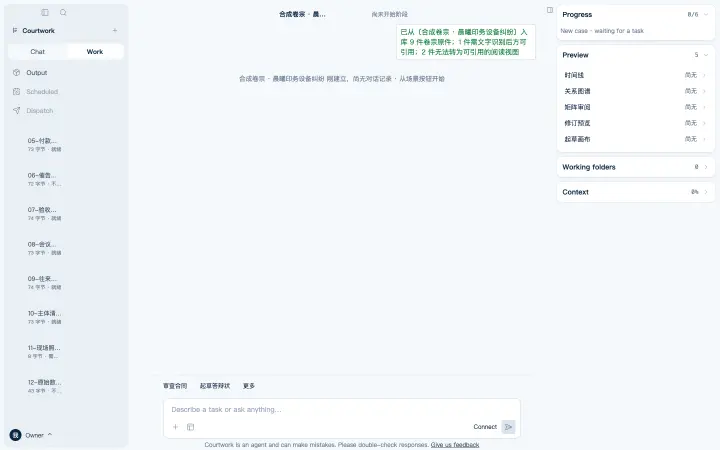
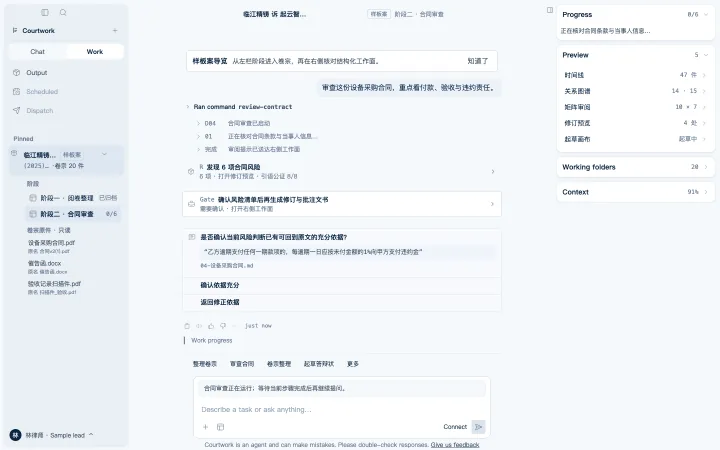
fix: tighten homepage composer flow measure

diff --git a/apps/desktop/src/styles.css b/apps/desktop/src/styles.css
@@ -95,7 +95,7 @@
   --home-control-radius: 8px;
   --home-surface-radius: 16px;
   --home-welcome-measure: 560px;
-  --content-measure: 760px; /* 五裁①(2026-07-12)：chat 内容列统一测宽,与 welcome 560 成梯度 */
+  --content-measure: 640px; /* COMPOSER-FLOW-COMPACT-1：chat 内容列与 composer 收至窄阅读测宽，welcome 560 保持梯度 */
 }
 
 * { box-sizing: border-box; box-shadow: none; scrollbar-width: thin; scrollbar-color: transparent transparent; }
@@ -469,7 +469,7 @@ kbd { min-width: 20px; padding: 2px 5px; border: 1px solid var(--border-strong);
 /* RP-2.12 待机主屏（Cowork 复刻）：品牌 icon + slogan（非卡）→ 居中 composer → 建议行 */
 .welcome-home {
   /* LAYOUT-CONVERGE-1 P2-4：测宽单源——收敛到 --home-welcome-measure（原硬编码 720px 退役，
-     与 --content-measure:760 成梯度，见 tokens.json home.welcomeMeasure）。 */
+     与 --content-measure:640 成梯度，见 tokens.json home.welcomeMeasure）。 */
   width: min(var(--home-welcome-measure), calc(100% - 48px)); margin: auto; padding: 0 0 48px;
   display: grid; justify-items: stretch; gap: var(--home-section-gap); color: var(--text-secondary);
 }

diff --git a/apps/desktop/tests/e2e/pilot-layout.spec.ts b/apps/desktop/tests/e2e/pilot-layout.spec.ts
@@ -15,10 +15,10 @@ import { createNamedCase, openModuleList, openWorkbench } from './helpers';
  *
  * mainArea 语义：work 段用 conversation-canvas 的 boundingBox（任意收拢组合下都是主区真值，
  * 即 grid 子项本身，非视口）；chat 段用 chat-canvas；welcome 内容寄居 work 段 conversation-canvas
- * 之内，同样以其为参照系。measure 固定用 --content-measure（当前 token 值 760）。
+ * 之内，同样以其为参照系。measure 固定用 --content-measure（当前 token 值 640）。
  */
 
-const MEASURE = 760;
+const MEASURE = 640;
 const WIDE_VIEWPORT = { width: 2400, height: 1000 };
 
 interface Box { x: number; y: number; width: number; height: number }

diff --git a/site/craft-evidence/COMPOSER-FLOW-COMPACT-1/README.md b/site/craft-evidence/COMPOSER-FLOW-COMPACT-1/README.md
@@ -1,0 +1,16 @@
+# COMPOSER-FLOW-COMPACT-1 · 首页 composer/chat 流测宽收紧
+
+日期：2026-07-18
+
+来源：隔离 worktree `codex/site-composer-tighten`，desktop Vite `127.0.0.1:18884`，真实样板案 UI，画幅 `1440×900`，`deviceScaleFactor=1`，`prefers-reduced-motion: reduce`。
+
+## 根因
+
+`--content-measure: 760px` 同时约束 chat 正文列和 composer。在首页卷宗局部的宽主栏里，两者一起显得过宽。
+
+## Before / After
+
+- `before/11-dossier-before-1440.webp`：替换前首页卷宗局部。
+- `after/11-dossier-composer-tightened-1440.png`：收窄后的真实应用帧；`--content-measure=640px`，`.composer-stack=640px`，内容列与 composer 同轴，零弹层残留。
+
+本帧仍使用虚构样板案数据；「临江精铸」等主体不是生产案件，也不代表 product-live。站点实际消费的 1440/720 WebP 已同步替换为该 After 帧的等比派生。

diff --git a/site/SPEC.md b/site/SPEC.md
@@ -158,3 +158,12 @@
 
 - 本会话退出门：`pnpm site:build`、`pnpm site:guard`、`pnpm lint`、`pnpm -r build`、`pnpm test` 均需实跑留证；提交前再执行 `git diff --check`，逐文件暂存并检查 cached names。
 - 独立验收会话必须在 clean worktree、独立端口复核六类真应用帧、响应式/键盘/对比度、文案 voice 与前后对照，并实际注入批量入口反例确认门禁变红；本实现会话不标记放行。
+
+## COMPOSER-FLOW-COMPACT-1 · 首页 composer/chat 流收窄（实现完成，待独立验收）
+
+本次首页视觉收尾的后续实现项。根因在 desktop 真源：`--content-measure: 760px` 同时约束 chat 正文列与 composer；宽主栏裁片中两者均显得过宽。现收至 **640px**，welcome `560px` 与站点布局契约保持不变。
+
+- 真应用先红/转绿证据：`pilot-layout.spec.ts` 旧 CSS 实测 5 项 `760 vs 640`；改 CSS 后独立端口真应用 e2e **9/9**。
+- 替换：`assets/screenshots/11-milestone-dossier-{1440,720}.webp`；原始 1440×900 PNG 与前后对照在 `craft-evidence/COMPOSER-FLOW-COMPACT-1/`。
+- 站点语义不变：本裁片仍是虚构合成卷宗的真实 UI，不新增 product-live、隐私、性能或规模宣称；其他 RiskList/redline/未落格/关系图谱/工作台资产不因本次测宽改动而虚构重拍。
+- 本节为实现留痕；放行结论需由独立验收会话写入 `site/ACCEPTANCE.md`，本实现会话不自验。